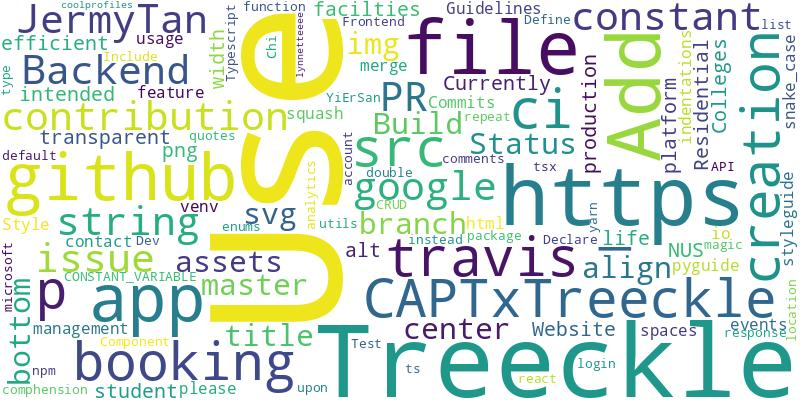
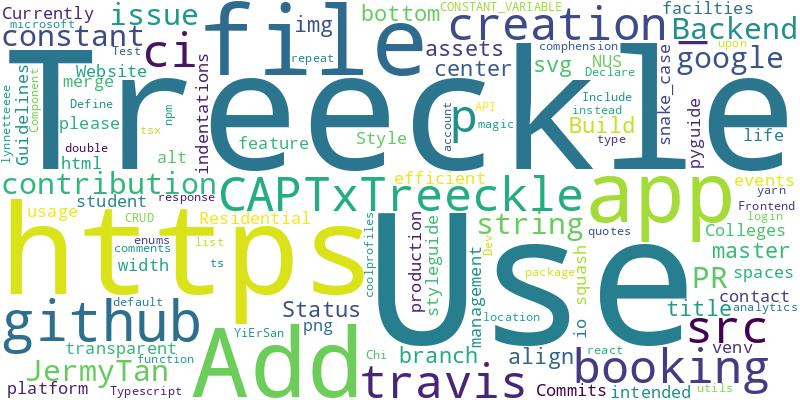
docs: auto-update README.md

diff --git a/README.md b/README.md
@@ -5,11 +5,11 @@
 <summary><strong>❔lynnetteeee</strong></summary>
 Link to repo: https://github.com/lynnetteeee/lynnetteeee
 <br/>
-This repository contains a detailed readme file which provides a comprehensive overview of the project.
+This repository contains a collection of markdown files that provide a detailed guide on different programming concepts and technologies. Each file is well-explained and includes examples and code snippets to help developers understand and implement various programming practices efficiently.
 
 ---
 
-The repository 'lynnetteeee' had commits focused on various improvements and updates. These included fixing a bug related to emojis, improving markdown formatting, auto-updating the README.md file, reverting gitignore changes, adding bold headers, integrating GitHub actions for wordcloud generation, and making minor text and prompt changes.
+Several updates were made to the README.md file, including formatting improvements, bold headers, and minor text changes. The gitignore file was modified to include wordcloud, and GitHub actions were integrated for wordcloud generation.
 </details>
 
 
